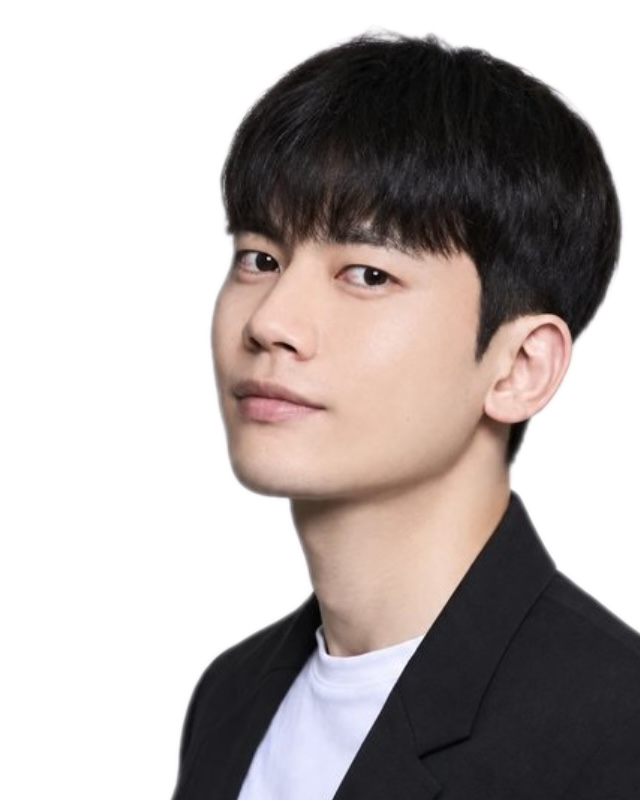
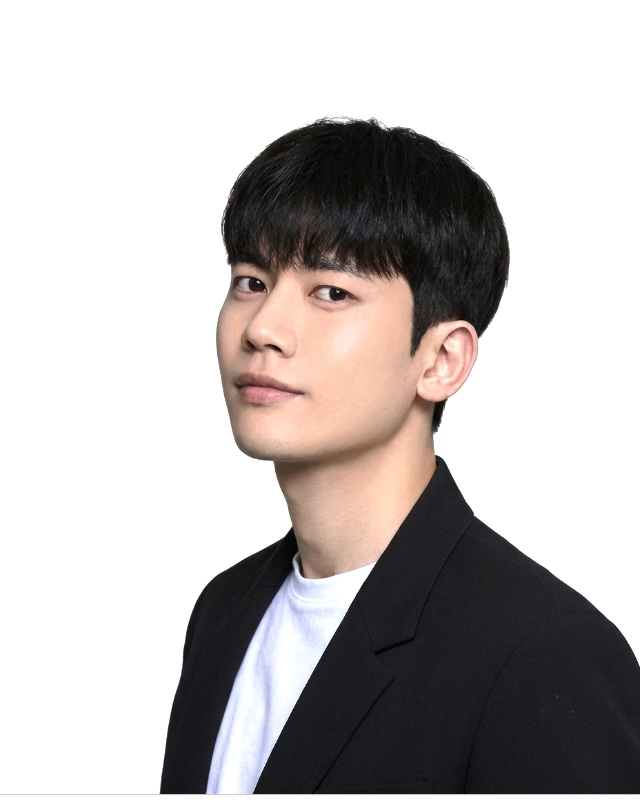
수학 강사 사진 크기 조정(신연우 크게, 권현석·이창환·김경한 작게), 신연우 맨 앞·권현석 두 번째

diff --git a/index.html b/index.html
@@ -575,8 +575,8 @@ const T=[
  {n:'류성훈',s:'국어',c:['강남대성학원 S2 언어와 매체 강의평가 최우수 강사','대치 두각','26학년도 수능 언어와 매체 만점자 배출 (전국 250명 가량)']},
  {n:'이태형',s:'국어',c:['서울대학교','시대인재 대치','다원교육','연속 수능 국어 만점자 배출','행정고시 2차 PASS','LEET 언어이해 1등']},
  {n:'장의순',s:'국어',c:['서울대학교 국어국문학과 졸업','시대인재 재종학원 정규반','장의순 수능국어 연구소','시대인재 서바이벌 검수','상상모의고사 공식 해설 강사 (온라인 단독 선정)','KBS · TV조선 의대 입시 인터뷰']},
- {n:'권현석',s:'수학',c:['서울대학교 졸업','강남대성','대치 두각']},
  {n:'신연우',s:'수학',t:'수학 · 송도 1:1 관리',l:'https://shinyeonwoomath.com',c:['경기고 수석 입학 · 수석 졸업','메이저 의대 출신 수능 수학 전문 강사','수능 수학의 일반화','자체 개발 시스템을 통한 초개인화 관리','★강사상주형★ 무한 1:1 클리닉']},
+ {n:'권현석',s:'수학',c:['서울대학교 졸업','강남대성','대치 두각']},
  {n:'정민',s:'영어',c:['고려대학교 영어교육과','메가스터디 최상위권 담당 강사','강의평가 1위','모의고사 출제 · 검수 위원']},
  {n:'홍진수',s:'탐구',t:'통합과학',c:['서울대학교','현) 대성마이맥 수능 물리학 인강','현) 대치 미래탐구','전) 대치 다원교육','전) 강남대성학원']},
  {n:'최정윤',s:'탐구',t:'통합과학',c:['서울대학교','스카이에듀','Mensa 정회원','MTN 머니투데이 매거진S 출연']},
@@ -615,7 +615,7 @@ const T=[
 ];
 const list=document.getElementById('tlist');
 /* 사진: img/teachers/이름.jpg 를 PHOTO 에 적으면 사진, 없으면 성 한 글자 */
-const PHOTO={};['류성훈','이태형','장의순','김호랑','고연승','권현석','신연우','정민','홍진수','최정윤','이예섭','정지만','김현중','이창환','최현재','김경한','문지현','박정은','박남진','최한근','안민형','강윤구'].forEach(n=>PHOTO[n]='img/teachers/'+n+'.jpg?v=1124a');
+const PHOTO={};['류성훈','이태형','장의순','김호랑','고연승','신연우','권현석','정민','홍진수','최정윤','이예섭','정지만','김현중','이창환','최현재','김경한','문지현','박정은','박남진','최한근','안민형','강윤구'].forEach(n=>PHOTO[n]='img/teachers/'+n+'.jpg?v=1126a');
 /* 줄 순서: 1줄 국어 · 2줄 수학 · 3줄 영어 · 4줄 탐구 · 논술 (11/19 사장님 요청)
    같은 과목 안에서는 (탐구는 통합과학·통합사회·사탐 순으로 묶고) 사진 있는 강사 먼저, 나머지는 배열 순서 그대로 */
 const SUBJ=['국어','수학','영어','탐구','논술'];
